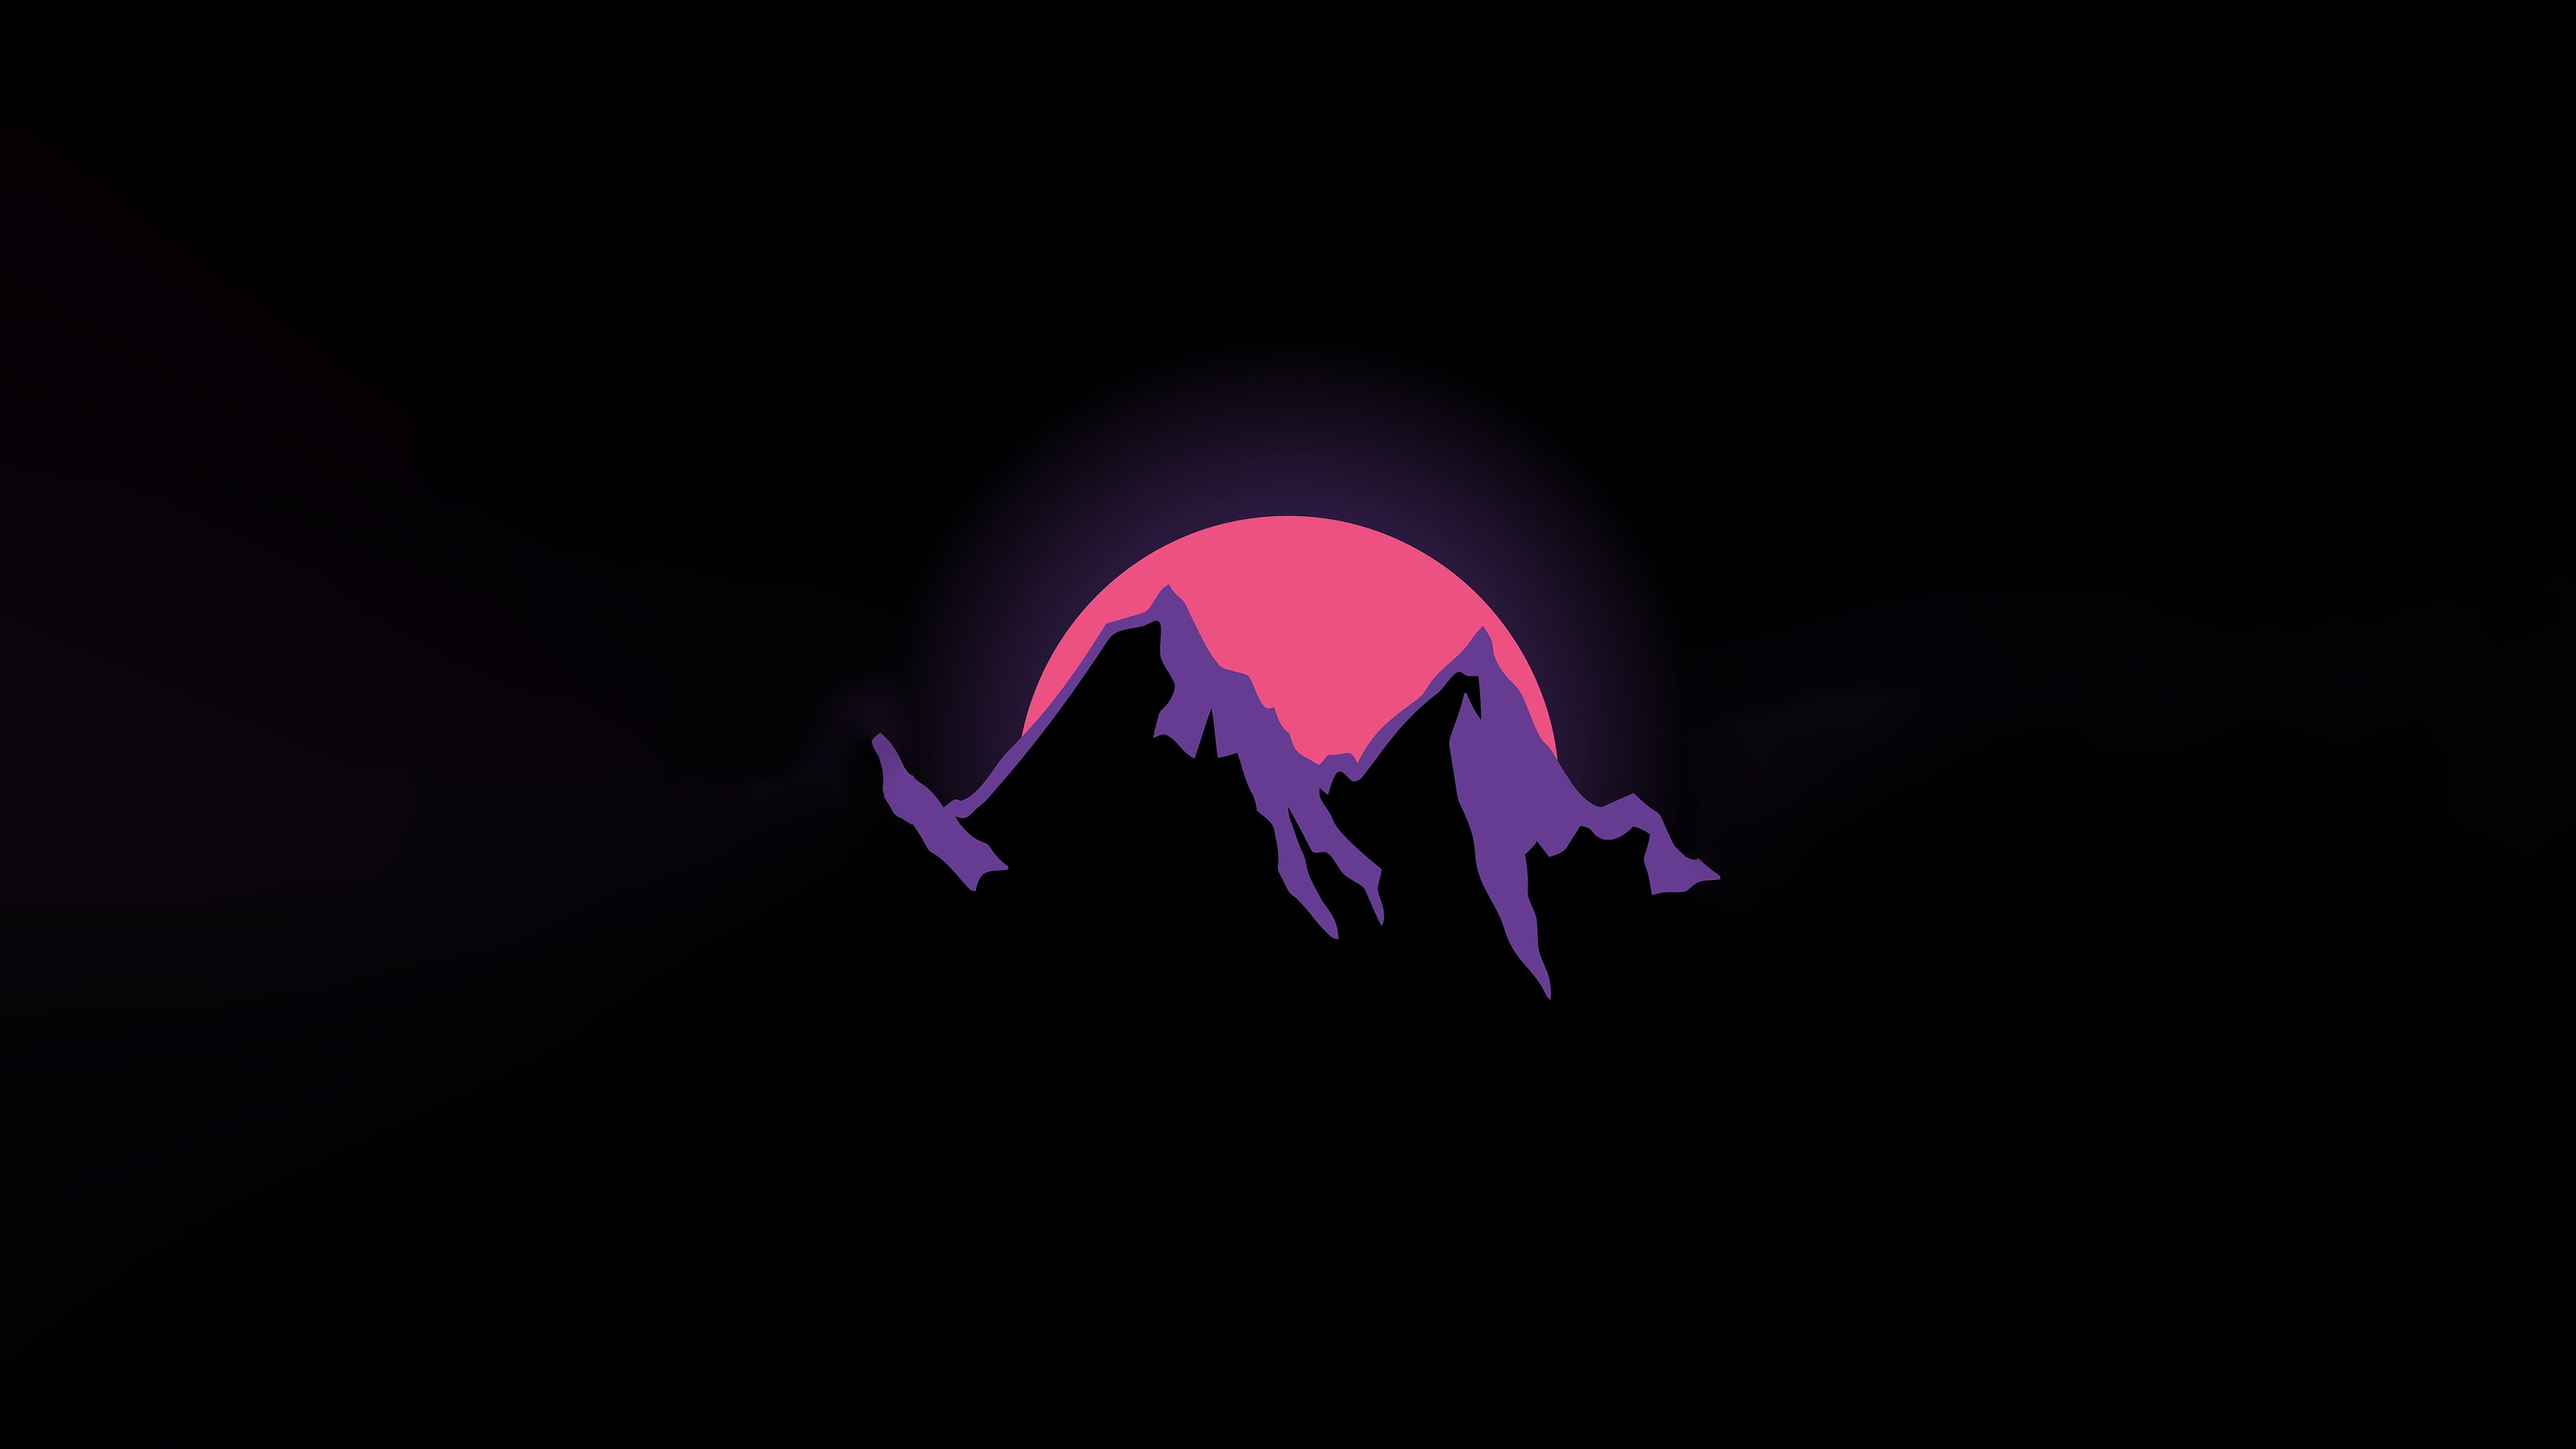
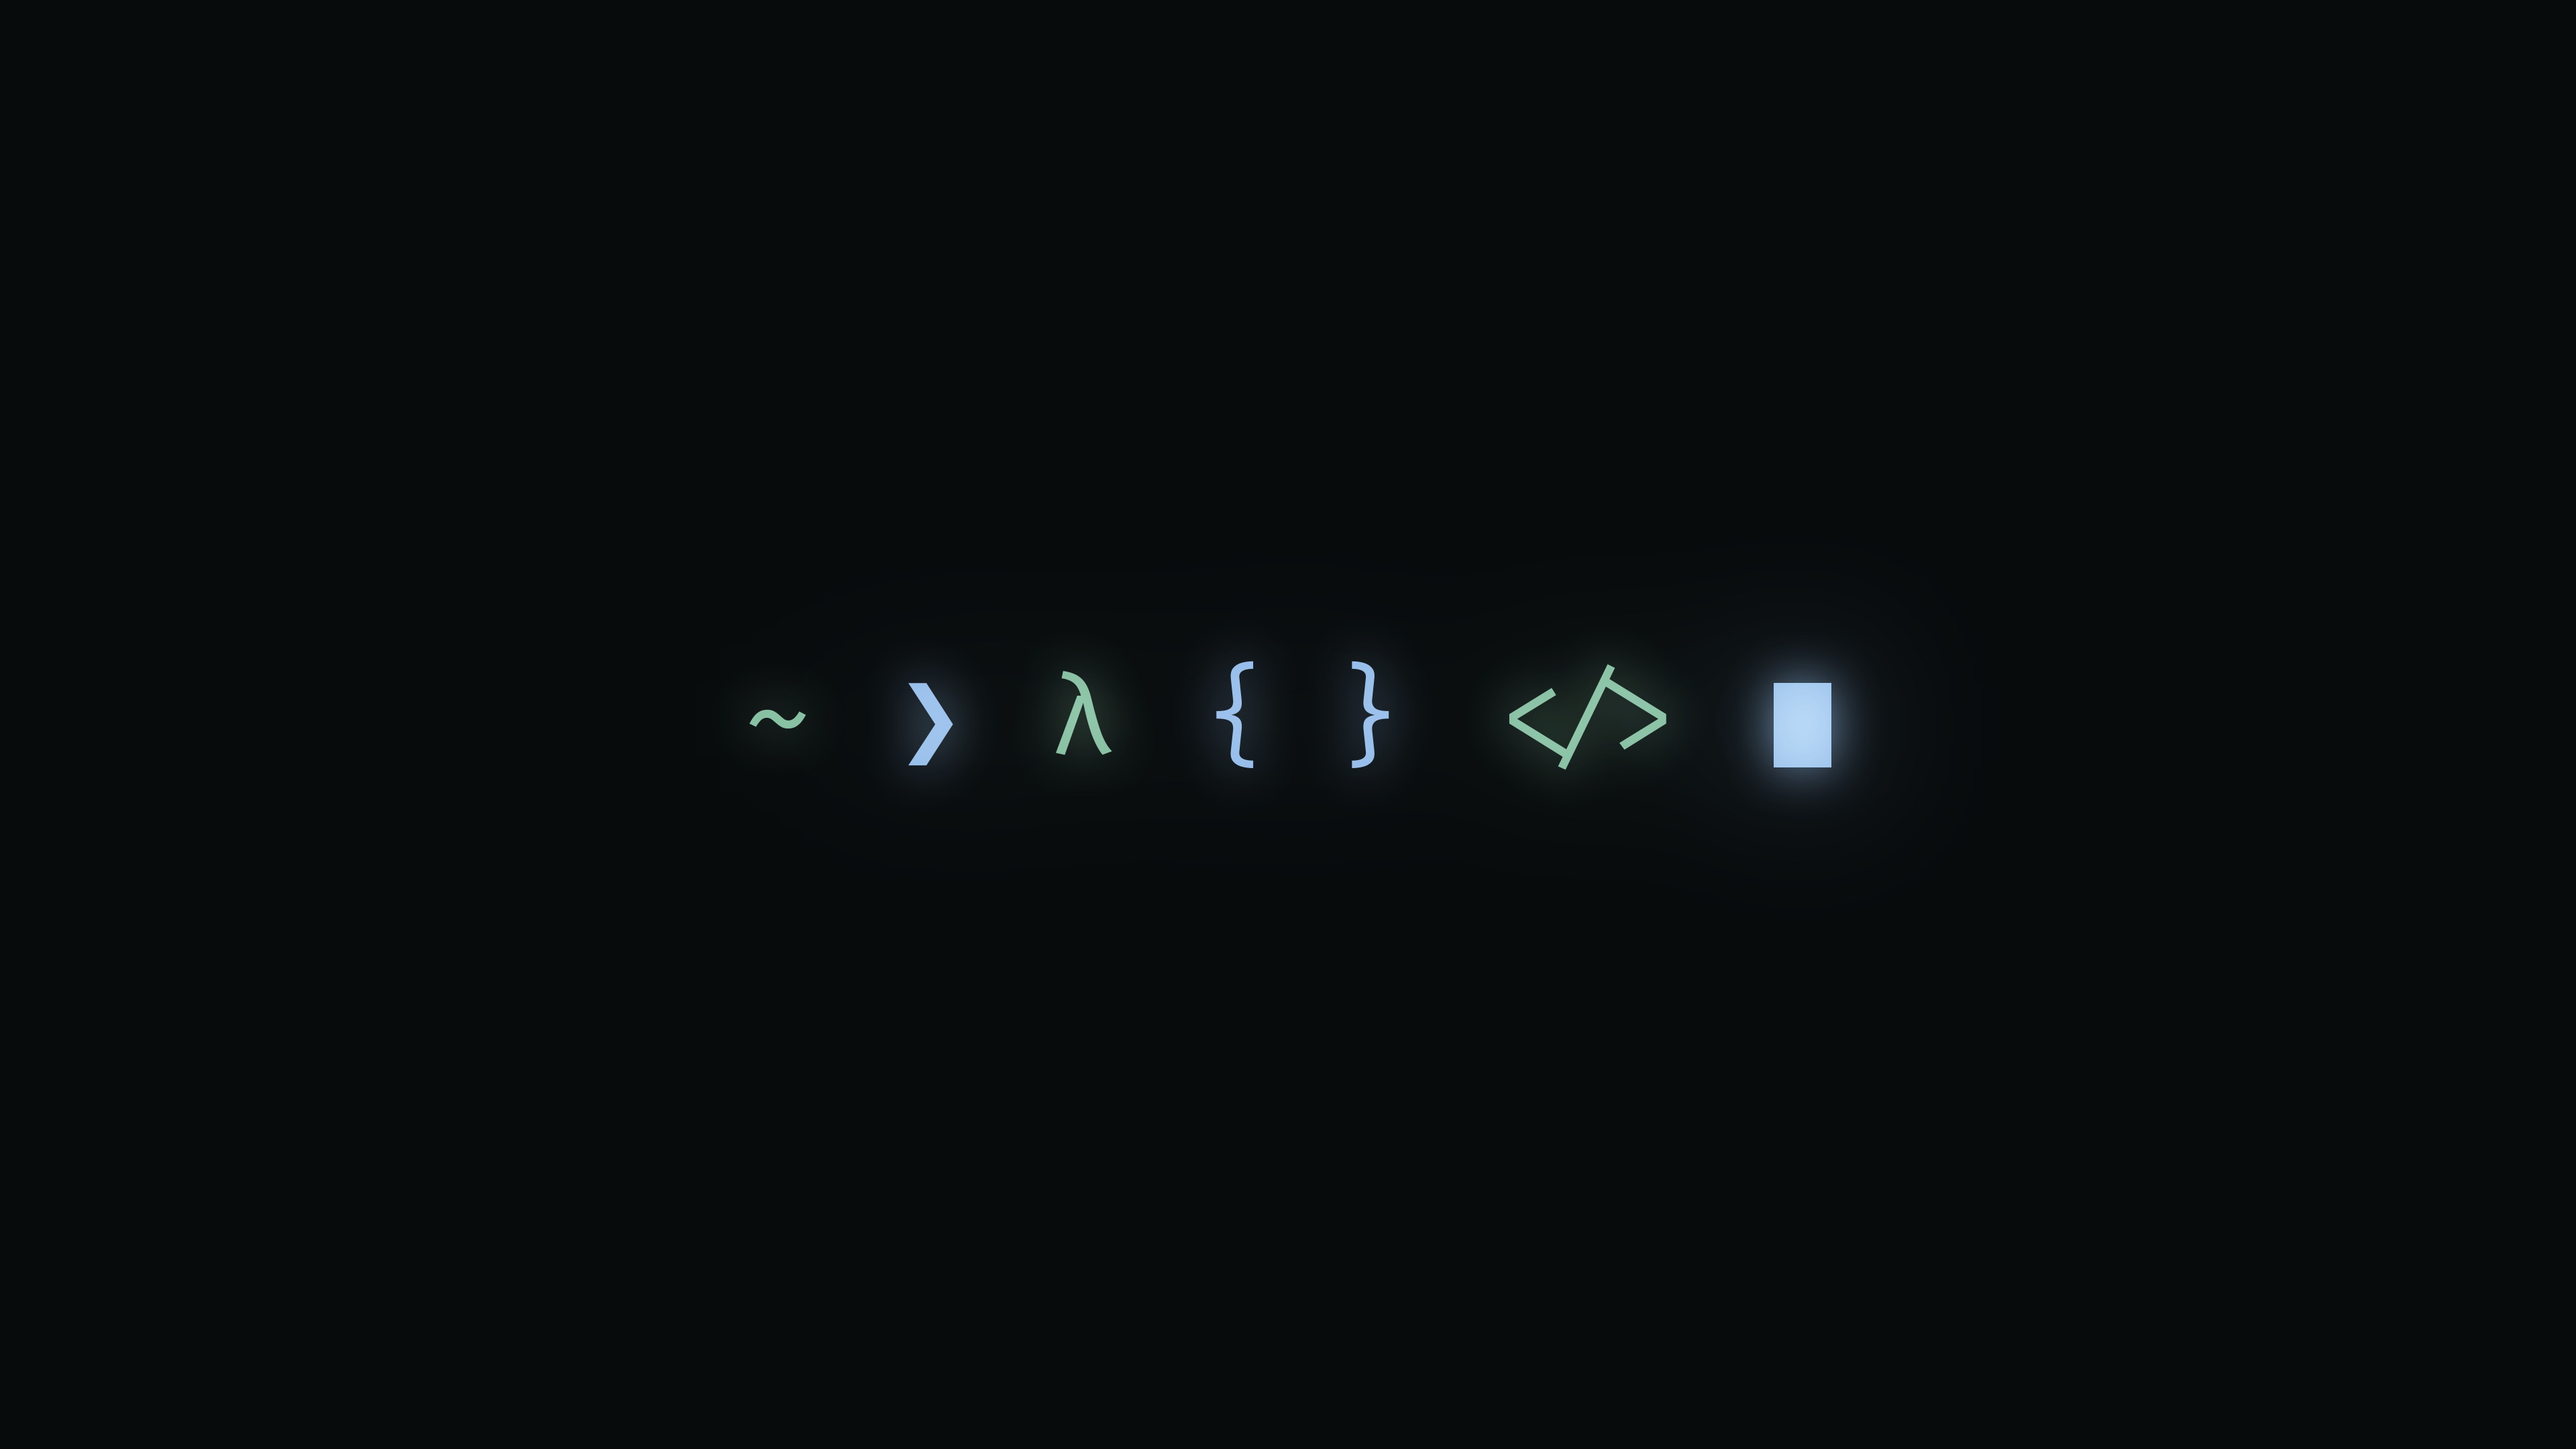
Make linux better

Changed region(s): [[0.3438, 0.2792, 0.75, 0.6514], [0.5938, 0.6514, 0.625, 0.6824]]

diff --git a/linux/configs/waybar/style.css b/linux/configs/waybar/style.css
@@ -1,74 +1,96 @@
-/* Midnight Pastels — restrained graphite with cool, non-orange accents. */
+/* Graphite menu bar — macOS-inspired spacing with pastel workspaces. */
 
 * {
     font-family: "Ubuntu Sans", "Noto Sans", "FiraCode Nerd Font Mono";
     font-weight: 500;
-    font-size: 16px;
+    font-size: 18px;
     min-height: 0;
+    border: none;
 }
 
+/* Floating islands: the bar window is invisible; each module cluster is its
+   own rounded translucent pill, hovering below the top edge. */
 window#waybar {
     background: transparent;
-    color: #ececf1;
+    color: #e8eaf0;
 }
 
 .modules-left,
 .modules-right {
-    margin: 4px 10px;
-    padding: 0 10px;
-    background: rgba(21, 23, 32, 0.92);
-    border: 1px solid rgba(48, 52, 66, 0.88);
+    padding: 0 8px;
+    background: rgba(16, 18, 25, 0.88);
+    border: 1px solid rgba(255, 255, 255, 0.06);
     border-radius: 14px;
+    box-shadow: 0 2px 10px rgba(0, 0, 0, 0.35);
+}
+
+/* No center island — keep the empty center box invisible. */
+.modules-center {
+    background: transparent;
+    border: none;
+    box-shadow: none;
+    padding: 0;
 }
 
 #workspaces button {
-    margin: 3px 2px;
-    padding: 0 11px;
-    color: #9299aa;
+    margin: 3px 1px;
+    padding: 0 9px;
+    color: #858c9e;
     background: transparent;
-    border: none;
-    border-radius: 9px;
+    border-radius: 8px;
+    box-shadow: none;
 }
 
 #workspaces button:hover {
-    color: #ececf1;
-    background: rgba(143, 183, 232, 0.14);
+    color: #f4f5f8;
+    background: rgba(127, 185, 154, 0.12);
 }
 
 #workspaces button.active {
-    color: #0b0c12;
-    background: #8fb7e8;
+    color: #0b0d13;
+    background: #7fb99a;
+    font-weight: 700;
+    box-shadow: 0 0 8px rgba(127, 185, 154, 0.24);
 }
 
-/* Each workspace gets a distinct cool pastel; no orange/yellow hues. */
-#workspaces button.active:nth-child(2)  { background: #9bcda7; } /* sage */
-#workspaces button.active:nth-child(3)  { background: #c4b5fd; } /* lavender */
-#workspaces button.active:nth-child(4)  { background: #f0a6c2; } /* pink */
-#workspaces button.active:nth-child(5)  { background: #afcbff; } /* periwinkle */
-#workspaces button.active:nth-child(6)  { background: #9fe3c2; } /* mint */
-#workspaces button.active:nth-child(7)  { background: #93c5fd; } /* sky */
-#workspaces button.active:nth-child(8)  { background: #d8b4fe; } /* lilac */
-#workspaces button.active:nth-child(9)  { background: #99e2d0; } /* seafoam */
-#workspaces button.active:nth-child(10) { background: #e8a2b8; } /* rose */
+/* Pastel cycle by button position (CSS can't key on the workspace number
+   itself without persistent buttons). Adjacent slots alternate hue families
+   — green base, then lavender/blue/pink/mint/… — so any set of open
+   workspaces always shows clearly distinct colors. No warm tones. */
+#workspaces button.active:nth-child(2)  { background: #c4b5fd; }  /* lavender */
+#workspaces button.active:nth-child(3)  { background: #afcbff; }  /* powder blue */
+#workspaces button.active:nth-child(4)  { background: #f0a6c2; }  /* pink */
+#workspaces button.active:nth-child(5)  { background: #9fe3c2; }  /* mint */
+#workspaces button.active:nth-child(6)  { background: #d8b4fe; }  /* purple */
+#workspaces button.active:nth-child(7)  { background: #93c5fd; }  /* sky */
+#workspaces button.active:nth-child(8)  { background: #e8a2b8; }  /* rose */
+#workspaces button.active:nth-child(9)  { background: #99e2d0; }  /* seafoam */
+#workspaces button.active:nth-child(10) { background: #8a9fd1; }  /* periwinkle */
 
 #workspaces button.urgent {
-    color: #0b0c12;
+    color: #0b0d13;
     background: #ff6b7a;
 }
 
 #cpu, #memory, #custom-docker, #network, #pulseaudio, #backlight,
 #custom-powerprofile, #battery, #tray, #custom-weather, #clock {
-    padding: 0 7px;
-    color: #ececf1;
+    padding: 0 8px;
+    color: #d9dce5;
 }
 
 #clock {
-    margin-left: 4px;
-    padding: 0 12px;
+    padding: 0 10px;
+    color: #f3f4f7;
+    font-weight: 600;
+}
+
+#cpu, #memory, #custom-docker, #network, #pulseaudio, #backlight,
+#custom-powerprofile, #custom-weather, #clock, #tray {
+    color: #f4f5f8;
 }
 
 #network.disconnected, #pulseaudio.muted {
-    color: #9299aa;
+    color: #777e90;
 }
 
 #battery.critical:not(.charging) {
@@ -77,4 +99,16 @@ window#waybar {
 
 #battery.charging {
     color: #65d6ad;
+}
+
+tooltip {
+    padding: 8px 10px;
+    color: #e8eaf0;
+    background: rgba(16, 18, 25, 0.98);
+    border: 1px solid rgba(127, 185, 154, 0.28);
+    border-radius: 10px;
+}
+
+tooltip label {
+    color: #e8eaf0;
 }

diff --git a/linux/configs/firefox/chrome/userChrome.css b/linux/configs/firefox/chrome/userChrome.css
@@ -1,87 +1,6 @@
-/* Near-black chrome with a clean, contemporary Firefox layout. Layered over
-   the built-in dark theme from user.js, so menus and popups stay consistently dark. */
-
-:root {
-  --od-bg:      #15161b;   /* deep graphite toolbar */
-  --od-bg-dark: #0b0c10;   /* near-black tab strip */
-  --od-surface: #0f1014;   /* fields, active tab */
-  --od-fg:      #e2e2e2;
-  --od-muted:   #929292;
-  --od-accent:  #b8b8b8;
-  --od-accent-soft: color-mix(in srgb, var(--od-accent) 18%, transparent);
-  --toolbarbutton-border-radius: 9px !important;
-}
-
-/* ── UI font ────────────────────────────────────────────────────────────── */
-#navigator-toolbox,
-#navigator-toolbox * {
-  font-family: "Ubuntu Sans", "Noto Sans", sans-serif !important;
-  font-size: 18px !important;
-  letter-spacing: 0.01em;
-}
-
+/* Minimal on purpose: text sizing only — no layout/geometry overrides.
+   (The previous full theme's megabar hack broke dropdown alignment.) */
 #urlbar-input,
 #searchbar input {
-  font-size: 18px !important;
-  font-weight: 450 !important;
-}
-
-/* Give the address bar more room while allowing narrow windows to shrink it. */
-#urlbar-container {
-  flex: 1 1 clamp(360px, 52vw, 820px) !important;
-}
-
-/* Address-bar suggestions and search results. */
-#urlbarView,
-#PopupSearchAutoComplete {
-  font-size: 18px !important;
-}
-
-/* ── Main chrome surfaces ───────────────────────────────────────────────── */
-#navigator-toolbox {
-  background-color: var(--od-bg-dark) !important;
-  border-bottom: none !important;
-}
-
-#nav-bar, #PersonalToolbar {
-  background-color: var(--od-bg) !important;
-  color: var(--od-fg) !important;
-}
-
-/* ── URL bar ────────────────────────────────────────────────────────────── */
-#urlbar-background {
-  background-color: var(--od-surface) !important;
-  border-radius: 10px !important;
-  border: 1px solid color-mix(in srgb, var(--od-fg) 10%, transparent) !important;
-  box-shadow: inset 0 1px 0 rgb(255 255 255 / 3%) !important;
-}
-
-#urlbar[focused] #urlbar-background {
-  border-color: var(--od-accent) !important;
-  box-shadow: 0 0 0 3px var(--od-accent-soft) !important;
-}
-
-#urlbar-input, #urlbar {
-  color: var(--od-fg) !important;
-}
-
-/* Subtle, rounded hover states make toolbar controls match the tabs. */
-.toolbarbutton-1:hover > .toolbarbutton-icon,
-.toolbarbutton-1:hover > .toolbarbutton-text,
-.toolbarbutton-1:hover > .toolbarbutton-badge-stack,
-#tracking-protection-icon-container:hover,
-#pageActionButton:hover {
-  background-color: var(--od-surface) !important;
-  border-radius: 8px !important;
-}
-
-/* ── Thin scrollbars in the chrome ──────────────────────────────────────── */
-scrollbar {
-  -moz-appearance: none !important;
-  width: 6px !important;
-  height: 6px !important;
-}
-scrollbar thumb {
-  border-radius: 3px !important;
-  -moz-appearance: none !important;
+  font-size: 17px !important;
 }

diff --git a/linux/configs/firefox/user.js b/linux/configs/firefox/user.js
@@ -3,16 +3,13 @@
 // the driver stack is safe — never force-enable compositor/decode paths here
 // (the old X11-era force flags caused visual glitching under Wayland).
 
-// Enable userChrome.css and userContent.css
+// Stock Firefox look: default theme, default density, no userChrome CSS.
+// (Values set explicitly to override anything persisted in prefs.js from the
+// earlier custom-theme era.)
+// userChrome.css enabled for ONE text-size rule (see chrome/userChrome.css).
 user_pref("toolkit.legacyUserProfileCustomizations.stylesheets", true);
-
-// Built-in dark theme (a fresh profile defaults to "system auto", which can
-// resolve light under Hyprland where no desktop color-scheme is set).
-user_pref("extensions.activeThemeID", "firefox-compact-dark@mozilla.org");
-
-// Compact UI density
-user_pref("browser.uidensity", 1);
-user_pref("browser.compactmode.show", true);
+user_pref("extensions.activeThemeID", "default-theme@mozilla.org");
+user_pref("browser.uidensity", 0);
 
 // Typography: Ubuntu Sans gives Firefox a crisp, contemporary proportional
 // interface and is shipped with Ubuntu. Keep Fira Code for source and terminal
